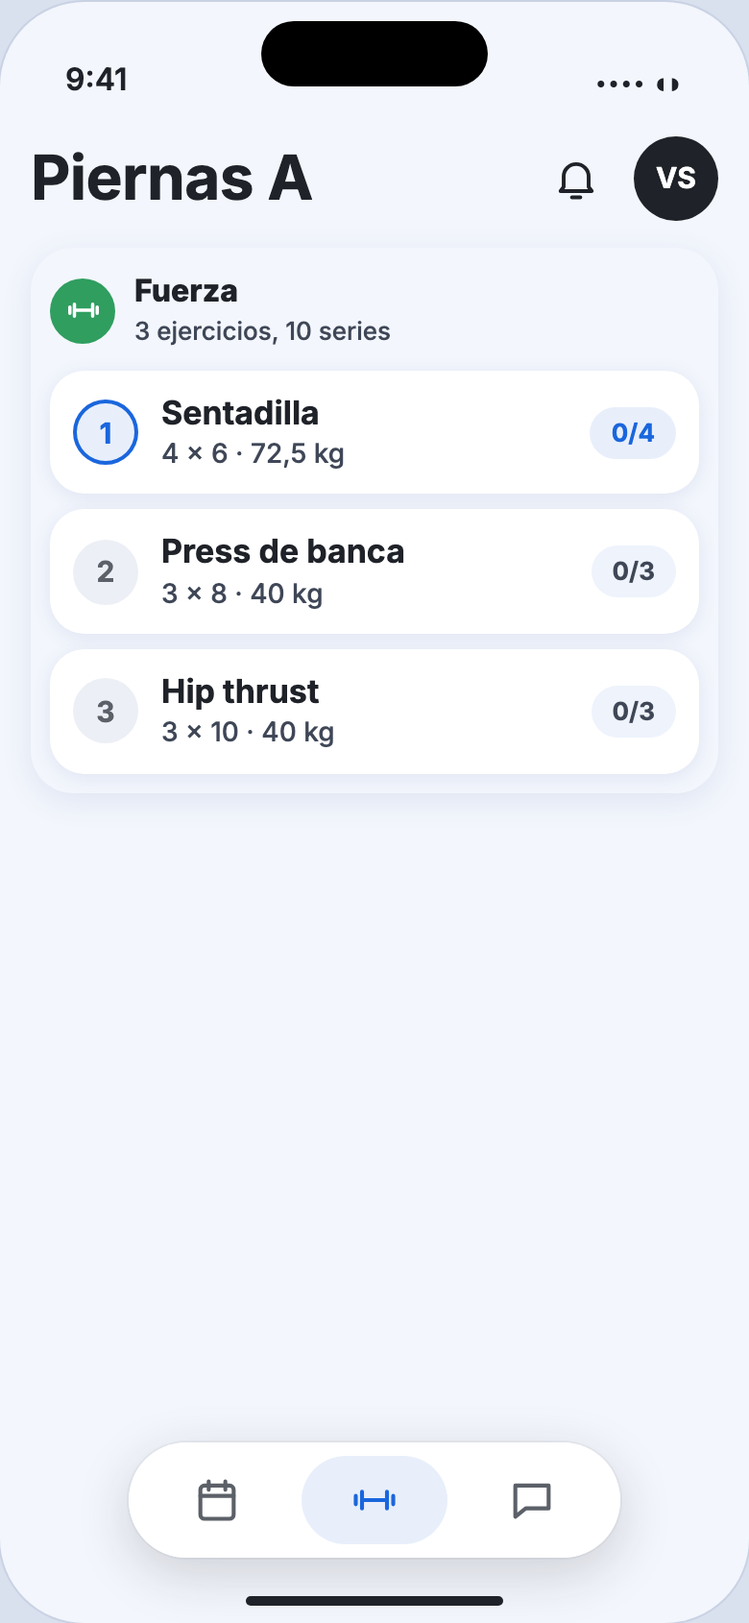
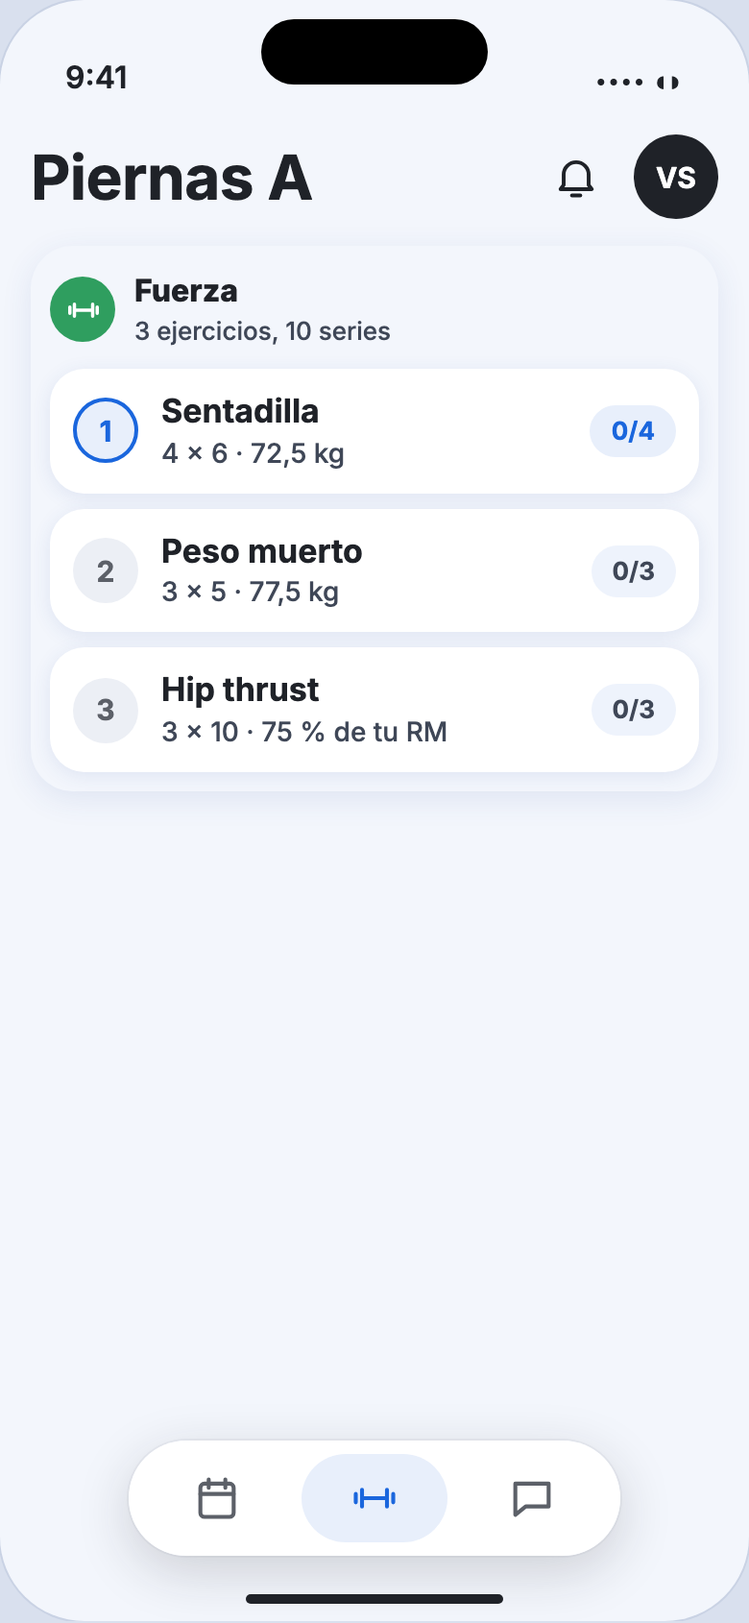
CYC-305: diseño ajustado a las respuestas de la usuaria (solo el coach registra el RM, RM aproximado, historial, varios atletas y aviso)

diff --git a/docs/diseno/rm-porcentaje/propuestas.html b/docs/diseno/rm-porcentaje/propuestas.html
@@ -288,6 +288,23 @@ body{font-family:Inter,-apple-system,system-ui,sans-serif;background:#d9e0ee;col
 .pop div.dis small{color:#8f4410;opacity:1}
 .pop div.act{color:#134fb0;font-weight:700;border-top:1px solid #e6ebf5;margin-top:4px;border-radius:0 0 8px 8px}
 .bn.off{opacity:.45}
+.rn{font:500 13px/1.35 Inter;color:#3f4757;margin:0 0 12px}
+.cbx{display:grid;place-items:center;width:20px;height:20px;border-radius:6px;border:2px solid #8d95a3;background:#fff;flex:none}
+.cbx.on{background:#1a66dd;border-color:#1a66dd}
+.cbx svg{width:13px;height:13px;stroke:#fff;fill:none;stroke-width:3.2;stroke-linecap:round;stroke-linejoin:round}
+.cr2{display:grid;grid-template-columns:28px 140px repeat(3,1fr) 90px;gap:8px;align-items:center;padding:7px 0;border-top:1px solid #e6ebf5;font:600 14px/1 Inter}
+.cr2.h{border-top:0;font:700 12px/1 Inter;color:#3f4757;text-align:center}
+.cr2.h span:nth-child(2){text-align:left}
+.cr2 b{font:700 14px/1.2 Inter}
+.stt{font:700 12px/1 Inter;border-radius:999px;padding:6px 8px;text-align:center}
+.stt.ok{background:#e4f4ea;color:#1d6b3f}
+.stt.no{background:#fdeede;color:#8f4410}
+.ntf{display:flex;gap:12px;align-items:flex-start;padding:14px 0;border-top:1px solid #e6ebf5}
+.ntf:first-of-type{border-top:0}
+.ntf .dot{width:10px;height:10px;border-radius:50%;background:#1a66dd;margin-top:6px;flex:none}
+.ntf b{font:700 15px/1.3 Inter;display:block}
+.ntf p{font:400 14px/1.4 Inter;color:#3f4757;margin:4px 0 8px}
+.ntf u{color:#134fb0;font:700 14px/1 Inter;text-decoration:none}
 
 </style>
 </head>
@@ -322,111 +339,126 @@ const beads=(d,a,n,txt)=>`<div class="beads2">${Array.from({length:n},(_,i)=>`<i
 const pend=(n)=>`<div class="pend"><span>Serie ${n}</span><span>Pendiente</span></div>`;
 const AV=(t)=>`<div class="av" style="width:34px;height:34px;font-size:12px">${t}</div>`;
 const chk=ic('check');
+const inp=(t,w,ph)=>`<div class="f ${ph?'ph2':''}" style="justify-content:start;padding:0 12px;${w?`width:${w}`:''}">${t}</div>`;
 // ---------- WEB: constructor ----------
 const COLS2=(peso)=>`<div class="wr2 h"><span></span><span>Ejercicio</span><span>Ser.</span><span>Reps o tiempo</span><span>Carga</span>${peso?`<span>${peso}</span>`:'<span></span>'}<span>Desc.</span><span>RIR</span><span></span></div>`;
 function row2(n,sets,rep,carga,peso,{desc='',rir='',tag='',pop=''}={}){
   const t=rep.u==='s';
   const cu=carga.u==='%'?'% RM':'kg';
-  const cargaCell=`<div class="pw"><div class="uf"><div class="v ${carga.v===''?'ph2':''}">${carga.v===''?'kg':carga.v}</div><div class="u ${carga.u==='st'?'st':''}">${carga.u==='st'?'kg':cu}${carga.u==='st'?'':ic('chev')}</div></div>${pop}</div>`;
+  const cargaCell=`<div class="pw"><div class="uf"><div class="v ${carga.v===''?'ph2':''}">${carga.v===''?'kg':carga.v}</div><div class="u">${cu}${ic('chev')}</div></div>${pop}</div>`;
   return `<div class="wr2"><span class="gp">⠿</span><div class="nm"><b>${n}</b>${tag}</div><div class="f">${sets}</div>
   <div class="uf"><div class="v">${rep.v}</div><div class="u st">${t?'s':'reps'}</div></div>${cargaCell}<div>${peso}</div>
   <div class="f ${desc?'':'ph2'}">${desc||'s'}</div>${t?'<div class="f off">—</div>':`<div class="f">${rir||'—'}</div>`}<div class="dots3">⋯</div></div>`;
 }
 const kgc=(t)=>`<span class="kgc">${t}</span>`;
+const nor=`<span class="kgc no">Sin RM</span>`;
 const POP_OK=`<div class="pop" style="left:0;top:38px;width:236px"><div><span>Peso fijo<small>Un peso en kg igual para todos</small></span></div><div class="on"><span>% del RM<small>Cada atleta, según su RM</small></span>${chk}</div></div>`;
-const POP_NO=`<div class="pop" style="left:0;top:38px;width:290px"><div class="on"><span>Peso fijo<small>Un peso en kg</small></span>${chk}</div><div class="dis"><span>% del RM<small>Valentina no tiene RM en Hip thrust</small></span></div><div class="act"><span>Ingresar el RM de Valentina</span></div></div>`;
-const POP_T=`<div class="pop" style="left:0;top:38px;width:250px"><div class="on"><span>Peso fijo<small>En kg, opcional</small></span>${chk}</div><div class="dis"><span>% del RM<small>Solo en ejercicios por repeticiones</small></span></div></div>`;
+const POP_NO=`<div class="pop" style="left:0;top:38px;width:310px"><div class="on"><span>Peso fijo<small>Un peso en kg</small></span>${chk}</div><div class="dis"><span>% del RM<small>Valentina no tiene RM en Hip thrust</small></span></div><div class="act"><span>Ingresar el RM de Valentina</span></div><div class="act" style="border-top:0;margin-top:0"><span>Calcular un RM aproximado</span></div></div>`;
 const prevSel=(txt,ph)=>`<div style="display:flex;align-items:center;gap:8px;margin-left:auto;font:600 13px/1 Inter;color:#3f4757">Vista previa con el RM de<div class="uf" style="width:210px"><div class="v ${ph?'ph2':''}" style="justify-content:start;padding:0 10px">${txt}</div><div class="u">${ic('chev')}</div></div></div>`;
 function webA(){
- return `<div class="web" style="min-height:560px"><div class="wh"><div class="wt" style="margin:0">Rutina «Piernas base»</div>${prevSel('Valentina Soto')}</div>
+ return `<div class="web" style="min-height:560px"><div class="wh"><div class="wt" style="margin:0">Rutina «Piernas base»</div><span class="chip gr">Para el equipo</span>${prevSel('Valentina Soto')}</div>
  <div class="wbk">${bh('#2f9e5f','Fuerza','3 ejercicios, 10 series')}${COLS2('Peso de Valentina')}
+  ${row2('Sentadilla',4,{v:6,u:'r'},{v:80,u:'%'},kgc('72,5 kg'),{desc:120,rir:2,pop:POP_OK})}
+  ${row2('Peso muerto',3,{v:5,u:'r'},{v:70,u:'%'},kgc('77,5 kg'),{desc:120,rir:2})}
+  ${row2('Hip thrust',3,{v:10,u:'r'},{v:75,u:'%'},nor,{desc:90,rir:2})}
+ </div>
+ <div class="wnote" style="margin-top:110px">La rutina se piensa para una persona o para un equipo: el % es el mismo para todos y cada atleta recibe su peso según su RM. La vista previa muestra el peso de una persona (redondeado a 2,5 kg para que calce con los discos); si a esa persona le falta el RM, la fila dice «Sin RM» pero el % sigue disponible para el resto.</div></div>`;
+}
+function webSes(){
+ return `<div class="web" style="min-height:520px"><div class="wt">Sesión «Piernas A», semana 2. Valentina Soto</div>
+ <div class="wbk">${bh('#2f9e5f','Fuerza','2 ejercicios, 7 series')}${COLS2('Peso')}
   ${row2('Sentadilla',4,{v:6,u:'r'},{v:80,u:'%'},kgc('72,5 kg'),{desc:120,rir:2})}
-  ${row2('Press de banca',3,{v:8,u:'r'},{v:40,u:'kg'},'',{desc:90,rir:2})}
   ${row2('Hip thrust',3,{v:10,u:'r'},{v:'',u:'kg'},'',{desc:90,rir:2,pop:POP_NO})}
  </div>
- <div class="wnote" style="margin-top:150px">Con una vista previa elegida, «% del RM» se desactiva en los ejercicios donde esa persona no tiene RM: no se ofrece ni se puede guardar. La salida está ahí mismo: «Ingresar el RM de Valentina» abre el formulario con el ejercicio ya elegido.</div></div>`;
-}
-function webB(){
- return `<div class="web" style="min-height:420px"><div class="wh"><div class="wt" style="margin:0">Rutina «Piernas base»</div><span class="chip gr">Plantilla</span>${prevSel('Elegir un atleta',true)}</div>
- <div class="wbk">${bh('#2f9e5f','Fuerza','2 ejercicios, 7 series')}${COLS2('')}
-  ${row2('Sentadilla',4,{v:6,u:'r'},{v:80,u:'%'},'',{desc:120,rir:2})}
-  ${row2('Hip thrust',3,{v:10,u:'r'},{v:75,u:'%'},'',{desc:90,rir:2})}
- </div>
- <div class="wnote">Una rutina o un ciclo plantilla no tiene atleta: no hay RM contra el cual comprobar, así que «% del RM» se ofrece en cualquier ejercicio con carga y el peso no se muestra. La comprobación llega al agregar la rutina a la sesión de un atleta (pantalla siguiente).</div></div>`;
+ <div class="wnote" style="margin-top:170px">Al editar la sesión de una persona, «% del RM» se desactiva donde no tiene RM, con dos salidas: ingresar su RM o calcular uno aproximado. Es distinto de agregar una rutina del equipo: ahí el % se mantiene y solo se avisa.</div></div>`;
 }
 function webAT(){
  return `<div class="web" style="min-height:360px"><div class="wt">Rutina «Piernas base»</div>
  <div class="wbk">${bh('#2f9e5f','Fuerza','2 ejercicios, 7 series')}${COLS2('')}
-  ${row2('Plancha lastrada',3,{v:45,u:'s'},{v:10,u:'st'},'',{desc:45,tag:'<span class="tag">Tiempo</span>',pop:POP_T})}
+  ${row2('Plancha lastrada',3,{v:45,u:'s'},{v:20,u:'%'},'',{desc:45,tag:'<span class="tag">Tiempo</span>'})}
   ${row2('Sentadilla',4,{v:6,u:'r'},{v:80,u:'%'},'',{desc:120,rir:2})}
  </div>
- <div class="wnote" style="margin-top:110px">Cuando la fila es por tiempo, la carga queda en kg: el RM es el máximo a una repetición y no aplica a 45 segundos de plancha. Si una fila con % se pasa a tiempo, la carga vuelve a peso fijo y se avisa.</div></div>`;
+ <div class="wnote">Todos los ejercicios pueden tener RM, también los medidos por tiempo (una plancha con disco tiene su RM). La carga de una fila por tiempo admite «% del RM» igual que una por repeticiones. RIR sigue apagado en las filas por tiempo (CYC-296).</div></div>`;
 }
-// ---------- WEB: ficha del atleta, sección RM ----------
+// ---------- WEB: ficha, RM, historial ----------
 function fichaRM(){
- const g='grid-template-columns:1fr 92px 76px 86px 134px 96px';
+ const g='grid-template-columns:1fr 92px 76px 100px 134px 90px';
  const mx=(n,kg,f,src,cls,ml)=>`<div class="tr" style="${g}"><b>${n}</b><span class="n">${kg}</span><span class="d">${f}</span><span class="src ${cls}">${src}</span><span class="d">${ml}</span><u>Actualizar</u></div>`;
  const no=(n,ml)=>`<div class="tr" style="${g}"><b>${n}</b><span class="n">—</span><span class="d"></span><span></span><span class="d">${ml}</span><u>Agregar RM</u></div>`;
  const h=(a,b,c,d,e)=>`<div class="tr h" style="${g}"><span>${a}</span><span class="n">${b}</span><span class="d">${c}</span><span>${d}</span><span>${e}</span><span></span></div>`;
  return `<div class="web" style="min-height:640px"><div style="display:flex;align-items:center;gap:12px;margin-bottom:12px">${AV('VS')}<div class="wt" style="margin:0;font-size:24px">Valentina Soto</div><div class="sg" style="margin-left:auto"><span>Planes</span><span class="on">RM</span></div></div>
- <div class="alr" style="background:#e8effb;border-color:#b9ccf0;color:#1f2228">${ic('bell').replace('#8f4410','#134fb0')}<span>Para planificar un ejercicio con <b>% del RM</b>, Valentina necesita su RM en ese ejercicio.</span></div>
+ <div class="alr" style="background:#e8effb;border-color:#b9ccf0;color:#1f2228">${ic('bell')}<span>Cuando evalúes a Valentina, <b>actualiza su RM</b>: las sesiones que aún no empieza usan el valor nuevo.</span></div>
  <div class="sec">Con RM</div>
- <div class="tbl">${h('Ejercicio','RM (1 rep)','Fecha','Origen','Máximo levantado')}
+ <div class="tbl">${h('Ejercicio','RM (1 rep)','Evaluado','Origen','Máximo levantado')}
   ${mx('Sentadilla','90 kg','12 nov','Coach','co','80 kg × 5')}
   ${mx('Peso muerto','110 kg','12 nov','Coach','co','100 kg × 3')}
-  ${mx('Press de banca','50 kg','5 nov','Atleta','at','45 kg × 4')}
-  ${mx('Remo con barra','55 kg','29 oct','Coach','co','45 kg × 8')}</div>
+  ${mx('Press de banca','50 kg','5 nov','Coach','co','45 kg × 4')}
+  ${mx('Remo con barra','55 kg','29 oct','Aproximado','es','45 kg × 8')}</div>
  <div class="sec">Sin RM</div>
  <div class="tbl">${h('Ejercicio','RM (1 rep)','','','Máximo levantado')}
   ${no('Hip thrust','60 kg × 10')}
   ${no('Press militar','30 kg × 8')}</div>
- <div class="wnote" style="margin-top:12px">Sección nueva dentro de la ficha. «Máximo levantado» es el mayor peso de sus series, con sus repeticiones: es solo una referencia y nunca llena ni reemplaza el RM. Cada «Actualizar» agrega un registro nuevo; el anterior queda en el historial.</div></div>`;
+ <div class="wnote" style="margin-top:12px">Sección nueva dentro de la ficha. Solo el coach registra el RM. «Máximo levantado» es el mayor peso de sus series, con sus repeticiones: es una referencia y nunca llena ni reemplaza el RM. Tocar un ejercicio abre su historial.</div></div>`;
 }
 function modalRM(){
- return `<div class="web nar" style="min-height:440px"><div class="wt">Agregar RM</div>
- <div class="fld"><b>Atleta</b><div class="f" style="justify-content:start;padding:0 12px;width:100%">Valentina Soto</div></div>
+ return `<div class="web nar" style="min-height:460px"><div class="wt">Agregar RM</div>
+ <div class="fld"><b>Atleta</b>${inp('Valentina Soto','100%')}</div>
  <div class="fld"><b>Ejercicio</b><div class="uf" style="width:100%"><div class="v" style="justify-content:start;padding:0 12px">Hip thrust</div><div class="u">${ic('chev')}</div></div></div>
- <div style="display:flex;gap:12px"><div class="fld" style="flex:1"><b>RM (kg)</b><div class="f ph2" style="justify-content:start;padding:0 12px">kg</div></div><div class="fld" style="flex:1"><b>Fecha</b><div class="f" style="justify-content:start;padding:0 12px">20 nov 2026</div></div></div>
- <div class="wnote"><b>Máximo levantado: 60 kg × 10</b>, el 14 nov. Es solo una referencia. El RM es el mayor peso con el que hace una sola repetición bien hecha, y lo escribes tú.</div>
+ <div style="display:flex;gap:12px"><div class="fld" style="flex:1"><b>RM (kg)</b>${inp('kg','',1)}</div><div class="fld" style="flex:1"><b>Fecha de la evaluación</b>${inp('20 nov 2026')}</div></div>
+ <div style="margin:2px 0 10px"><span style="color:#134fb0;font:700 14px/1 Inter">Calcular un RM aproximado</span></div>
+ <div class="wnote"><b>Máximo levantado: 60 kg × 10</b>, el 14 nov. Es una referencia. El RM es el mayor peso con el que hace una sola repetición bien hecha.</div>
  <div style="display:flex;gap:10px;margin-top:14px"><span class="bn off" style="height:44px;padding:0 22px">Guardar RM</span><span class="bn sec" style="height:44px;padding:0 22px">Cancelar</span></div></div>`;
 }
+function modalCalc(){
+ return `<div class="web nar" style="min-height:460px"><div class="wt">Calcular un RM aproximado</div>
+ <div class="wnote" style="margin:0 0 10px">Úsalo cuando aún no hay una evaluación. Tú pones los datos y tú confirmas el resultado.</div>
+ <div style="display:flex;gap:12px"><div class="fld" style="flex:1"><b>Peso levantado (kg)</b>${inp('60')}</div><div class="fld" style="flex:1"><b>Repeticiones</b>${inp('10')}</div></div>
+ <div style="margin:0 0 10px"><span style="color:#134fb0;font:700 14px/1 Inter">Usar el máximo levantado (60 kg × 10)</span></div>
+ <div class="msg" style="margin-bottom:10px"><b>RM aproximado: 80 kg</b><p style="margin:4px 0 0;font-size:14px">Fórmula de Epley: peso × (1 + repeticiones ÷ 30). Es una aproximación; queda marcada como «Aproximado» hasta que la actualices con una evaluación.</p></div>
+ <div style="display:flex;gap:10px;margin-top:14px"><span class="bn" style="height:44px;padding:0 22px">Usar como RM</span><span class="bn sec" style="height:44px;padding:0 22px">Cancelar</span></div></div>`;
+}
 function modalCambio(){
- return `<div class="web nar" style="min-height:420px"><div class="wt">Actualizar RM de Sentadilla</div>
- <div style="display:flex;gap:12px"><div class="fld" style="flex:1"><b>RM (kg)</b><div class="f" style="justify-content:start;padding:0 12px">100</div></div><div class="fld" style="flex:1"><b>Fecha</b><div class="f" style="justify-content:start;padding:0 12px">20 nov 2026</div></div></div>
+ return `<div class="web nar" style="min-height:460px"><div class="wt">Actualizar RM de Sentadilla</div>
+ <div style="display:flex;gap:12px"><div class="fld" style="flex:1"><b>RM (kg)</b>${inp('100')}</div><div class="fld" style="flex:1"><b>Fecha de la evaluación</b>${inp('20 nov 2026')}</div></div>
  <div class="alr" style="background:#e8effb;border-color:#b9ccf0;color:#1f2228"><span><b>Antes 90 kg, ahora 100 kg.</b> Las sesiones que Valentina aún no empieza usan el RM nuevo: la sentadilla al 80 % pasa de 72,5 kg a 80 kg. Lo que ya registró no cambia.</span></div>
  <div style="display:flex;gap:10px;margin-top:14px"><span class="bn" style="height:44px;padding:0 22px">Guardar RM</span><span class="bn sec" style="height:44px;padding:0 22px">Cancelar</span></div></div>`;
 }
-// ---------- WEB: asignar y cobertura ----------
-function asignar(){
- return `<div class="web nar" style="min-height:560px"><div class="wt">Agregar rutina a la sesión</div>
- <div class="fld"><b>Atleta</b><div class="f" style="justify-content:start;padding:0 12px;width:100%">Camila Rojas</div></div>
- <div class="fld"><b>Rutina</b><div class="uf" style="width:100%"><div class="v" style="justify-content:start;padding:0 12px">Piernas base</div><div class="u">${ic('chev')}</div></div></div>
- <div class="fld"><b>Celda</b><div class="f" style="justify-content:start;padding:0 12px;width:260px">Semana 2, sesión 1</div></div>
- <div class="alr" style="display:block"><b>Camila no tiene RM en Peso muerto ni en Hip thrust.</b> Sin RM no se puede usar % del RM en esos ejercicios.
-  <div class="rd"><i class="on"></i><span><b>Ingresar su RM ahora</b> Se abre su ficha; al volver, la rutina se agrega con %.</span></div>
-  <div class="rd"><i></i><span><b>Usar peso fijo en esos ejercicios</b></span></div>
-  <div style="display:flex;gap:10px;margin:8px 0 0 28px"><div style="flex:1"><div class="flab">Peso muerto</div><div class="f ph2" style="margin-top:4px;justify-content:start;padding:0 10px">kg</div></div><div style="flex:1"><div class="flab">Hip thrust</div><div class="f ph2" style="margin-top:4px;justify-content:start;padding:0 10px">kg</div></div></div></div>
- <span class="bn off" style="height:46px;padding:0 24px;margin-top:12px">Agregar</span>
- <div class="wnote" style="margin-top:12px">«Agregar» se activa cuando cada ejercicio con % tiene RM o un peso fijo. Asignar el ciclo de la Biblioteca solo copia el ciclo vacío, así que ahí no hay nada que comprobar: el % llega con la rutina.</div></div>`;
+function historial(){
+ const r=(f,kg,src,cls,cur)=>`<div class="tr" style="grid-template-columns:1fr 100px 110px 90px;${cur?'background:#f3f6fc':''}"><b>${f}</b><span class="n">${kg}</span><span class="src ${cls}">${src}</span><span class="d">${cur?'Vigente':''}</span></div>`;
+ return `<div class="web nar" style="min-height:360px"><div class="wt">Historial de Sentadilla. Valentina Soto</div>
+ <div class="tbl"><div class="tr h" style="grid-template-columns:1fr 100px 110px 90px"><span>Evaluación</span><span class="n">RM</span><span>Origen</span><span></span></div>
+ ${r('12 nov 2026','90 kg','Coach','co',1)}${r('15 oct 2026','85 kg','Coach','co')}${r('20 sep 2026','80 kg','Aproximado','es')}</div>
+ <div class="wnote" style="margin-top:12px">Cada evaluación agrega una fila; las anteriores no se borran. El RM vigente es la evaluación más reciente.</div></div>`;
 }
-function cobertura(){
+// ---------- WEB: agregar a varios atletas y aviso ----------
+function variosAtletas(){
+ const cb=(on)=>`<i class="cbx ${on?'on':''}">${on?chk:''}</i>`;
  const c=(t,ok)=>`<div class="cv ${ok?'ok':'no'}">${t}</div>`;
- const r=(n,a,b,c3)=>`<div class="cr"><b>${n}</b>${a}${b}${c3}</div>`;
- return `<div class="web" style="min-height:420px"><div class="wt">Rutina «Piernas base». Quién tiene RM</div>
- <div class="cr h"><span></span><span>Sentadilla 80 %</span><span>Peso muerto 70 %</span><span>Hip thrust 75 %</span></div>
- ${r('Valentina Soto',c('72,5 kg',1),c('77 kg',1),c('Sin RM',0))}
- ${r('Camila Rojas',c('65 kg',1),c('Sin RM',0),c('Sin RM',0))}
- ${r('Josefa Pino',c('80 kg',1),c('85 kg',1),c('90 kg',1))}
- ${r('Matías Vera',c('Sin RM',0),c('Sin RM',0),c('Sin RM',0))}
- ${r('Antonia Díaz',c('60 kg',1),c('70 kg',1),c('Sin RM',0))}
- <div class="alr" style="margin-top:12px">${ic('bell')}<span><b>Solo 1 de 5 atletas</b> tiene RM en los 3 ejercicios con %. A los demás no se les puede agregar la rutina con %. Tocar «Sin RM» abre su ficha.</span></div>
- <div class="wnote">Pantalla para el equipo: el mismo ciclo, atleta por atleta, con el peso que le toca. Se abre desde la rutina en la Biblioteca y lista a los atletas activos del coach. Es una tarjeta aparte (CYC-307), no bloquea el resto.</div></div>`;
+ const r=(on,n,a,b,d,st)=>`<div class="cr2">${cb(on)}<b>${n}</b>${a}${b}${d}<span class="stt ${st==='Lista'?'ok':'no'}">${st}</span></div>`;
+ return `<div class="web" style="min-height:560px"><div class="wt">Agregar «Piernas base» a la semana 2, sesión 1</div>
+ <div style="display:flex;gap:10px;align-items:center;margin-bottom:10px"><span class="chip nx">Todos mis atletas</span><span class="chip gr">Elegir atletas</span></div>
+ <div class="cr2 h"><span></span><span>Atleta</span><span>Sentadilla 80 %</span><span>Peso muerto 70 %</span><span>Hip thrust 75 %</span><span>Estado</span></div>
+ ${r(1,'Valentina Soto',c('72,5 kg',1),c('77,5 kg',1),c('Sin RM',0),'Falta RM')}
+ ${r(1,'Camila Rojas',c('65 kg',1),c('Sin RM',0),c('Sin RM',0),'Falta RM')}
+ ${r(1,'Josefa Pino',c('80 kg',1),c('85 kg',1),c('90 kg',1),'Lista')}
+ ${r(1,'Matías Vera',c('Sin RM',0),c('Sin RM',0),c('Sin RM',0),'Falta RM')}
+ ${r(1,'Antonia Díaz',c('60 kg',1),c('70 kg',1),c('Sin RM',0),'Falta RM')}
+ <div class="alr" style="margin-top:12px">${ic('bell')}<span><b>A 4 de 5 atletas les falta RM en algún ejercicio.</b> Se agrega igual: tendrán el % sin peso y te avisamos para que agregues o calcules su RM.</span></div>
+ <span class="bn" style="height:46px;padding:0 24px;margin-top:12px">Agregar a 5 atletas</span>
+ <div class="wnote" style="margin-top:12px">Cada atleta recibe la misma rutina con su propio peso. Pesos redondeados a 2,5 kg para que calcen con los discos. Hoy no existen los equipos como grupo con nombre: se elige a los atletas (o a todos).</div></div>`;
+}
+function avisoCoach(){
+ return `<div class="web nar" style="min-height:460px"><div style="display:flex;align-items:center;gap:10px;margin-bottom:12px"><div class="wt" style="margin:0">Avisos</div></div>
+ <div class="ntf"><i class="dot"></i><div style="flex:1"><b>Camila Rojas no tiene RM en Peso muerto ni en Hip thrust.</b><p>Su sesión de la semana 2 usa % del RM y quedó sin peso.</p><div style="display:flex;gap:14px"><u>Agregar RM</u><u>Calcular aproximado</u></div></div></div>
+ <div class="ntf"><i class="dot"></i><div style="flex:1"><b>Matías Vera no tiene RM en Sentadilla, Peso muerto ni Hip thrust.</b><p>Su sesión de la semana 2 usa % del RM y quedó sin peso.</p><div style="display:flex;gap:14px"><u>Agregar RM</u><u>Calcular aproximado</u></div></div></div>
+ <div class="wnote">Un aviso por atleta, sin datos de salud. Desaparece cuando el RM queda registrado.</div></div>`;
 }
 // ---------- WEB: atleta ----------
 function webAtleta(){
  return `<div class="web nar" style="min-height:420px"><div style="font:600 14px/1 Inter;color:#3f4757;margin-bottom:10px">‹ Sesión de hoy</div>
  <div class="wt" style="font-size:24px">Sentadilla</div>
- <div style="display:flex;gap:18px;margin-bottom:12px;font:500 14px/1.3 Inter"><div><b style="display:block;font:700 12px/1 Inter;color:#3f4757">Meta</b>4 × 6 con 72,5 kg</div><div><b style="display:block;font:700 12px/1 Inter;color:#3f4757">Carga</b><span class="chip nx">80 % de tu RM de 90 kg</span></div></div>
+ <div style="display:flex;gap:18px;margin-bottom:12px;font:500 14px/1.3 Inter"><div><b style="display:block;font:700 12px/1 Inter;color:#3f4757">Meta</b>4 × 6 con 72,5 kg</div><div><b style="display:block;font:700 12px/1 Inter;color:#3f4757">Carga</b><span class="chip nx">Estás levantando el 80 % de tu RM</span></div></div>
+ <div class="rn" style="margin-top:-4px">Peso redondeado a 2,5 kg para que calce con los discos.</div>
  <div class="dn"><b>Serie 1</b><span>6 reps · 72,5 kg</span><u>Editar</u></div>
  <div class="sc" style="box-shadow:0 0 0 1px #dde4f0"><div class="sh"><b>Serie 2</b><span class="tp">Meta: 6 × 72,5 kg</span></div>
  <div style="display:flex;gap:12px"><div style="flex:1"><div class="flab">Repeticiones</div><div class="f" style="margin-top:6px;justify-content:start;padding:0 12px">6</div></div><div style="flex:1"><div class="flab">Peso (kg)</div><div class="f" style="margin-top:6px;justify-content:start;padding:0 12px">72,5</div></div></div></div>
@@ -437,34 +469,29 @@ function hoy(){
  const xr=(i,n,t,p,cur)=>`<div class="xr"><div class="nd ${cur?'cur':''}">${i}</div><div class="tx"><b>${n}</b><span>${t}</span></div><span class="pl ${cur?'cur':''}">${p}</span></div>`;
  return phone(`<div class="scr"><div class="hd"><h1>Piernas A</h1>${bell}<div class="av">VS</div></div>
  <div class="blk"><div class="bh2"><div class="pr" style="background:#2f9e5f">${ic('dumb')}</div><div class="t"><b>Fuerza</b><span>3 ejercicios, 10 series</span></div></div>
-  ${xr(1,'Sentadilla','4 × 6 · 72,5 kg','0/4',true)}${xr(2,'Press de banca','3 × 8 · 40 kg','0/3')}${xr(3,'Hip thrust','3 × 10 · 40 kg','0/3')}</div></div>`,{tabs:TABS,active:1});
+  ${xr(1,'Sentadilla','4 × 6 · 72,5 kg','0/4',true)}${xr(2,'Peso muerto','3 × 5 · 77,5 kg','0/3')}${xr(3,'Hip thrust','3 × 10 · 75 % de tu RM','0/3')}</div></div>`,{tabs:TABS,active:1});
 }
 function logRM(){
  return phone(`<div class="scr nopad" style="padding-bottom:170px">${back('Piernas A')}
  <div class="xt">Sentadilla</div>${beads(0,0,4,'Serie 1 de 4')}
  <div class="sc"><div class="sh"><b>Serie 1</b><span class="tp">Meta: 6 × 72,5 kg</span></div>
- <div style="margin-bottom:12px"><span class="chip nx">80 % de tu RM de 90 kg</span></div>
+ <div style="margin-bottom:6px"><span class="chip nx">Estás levantando el 80 % de tu RM</span></div>
+ <div class="rn">Peso redondeado a 2,5 kg para que calce con los discos.</div>
  <div class="flab">Repeticiones</div><div class="stp"><i>−</i><b>6</b><i>+</i></div>
  <div class="flab" style="margin-top:14px">Peso</div><div class="stp"><i>−</i><b>72,5<small>kg</small></b><i>+</i></div></div>${pend(2)}${pend(3)}</div>
  <div class="ft"><div class="bt">Guardar serie</div></div>`);
 }
-function misRM(write,over=''){
- const r=(n,kg,src,cls,f)=>`<div class="rw"><div class="tx"><b style="font-size:16px">${n}</b></div><span style="font:800 16px/1 Inter">${kg}</span><span class="src ${cls}">${src}</span><span style="font:500 13px/1 Inter;color:#3f4757;width:44px;text-align:right">${f}</span></div>`;
- return phone(`<div class="scr">${back('Cuenta')}<div class="xt">Mis RM</div>
- <div class="card"><div class="ch"><h2>Con RM</h2></div>
-  ${r('Sentadilla','90 kg','Coach','co','12 nov')}${r('Peso muerto','110 kg','Coach','co','12 nov')}${r('Press de banca','50 kg',write?'Yo':'Coach',write?'at':'co','5 nov')}</div>
- ${write?`<div class="bt sec">Agregar RM</div>`:`<div class="msg"><b>Tu coach registra tu RM</b><p style="margin-bottom:0">Si algo no está al día, avísale.</p></div>`}</div>`,{tabs:TABS,active:1,over});
-}
-function sheetRM(){
- const s=`<div class="scrim" style="place-items:end stretch"><div class="sheet"><i class="grab"></i><div style="font:800 24px/1.15 Inter;margin-bottom:12px">Tu RM de Hip thrust</div>
- <div class="flab">RM (kg)</div><div class="stp" style="margin-bottom:12px"><i>−</i><b style="color:#8d95a3">—<small>kg</small></b><i>+</i></div>
- <div class="flab">Fecha</div><div class="f" style="margin:6px 0 12px;justify-content:start;padding:0 12px;height:44px;font-size:16px">Hoy, 20 nov</div>
- <div class="msg" style="margin-bottom:14px;padding:12px"><b style="font-size:15px">Máximo levantado: 60 kg × 10</b><p style="font-size:14px;margin:4px 0 0">Es solo una referencia. Tu RM es el mayor peso con el que haces una sola repetición bien hecha.</p></div>
- <div class="bt off">Guardar RM</div><div class="lnk">Cancelar</div></div></div>`;
- return misRM(true,s);
+function logSin(){
+ return phone(`<div class="scr nopad" style="padding-bottom:170px">${back('Piernas A')}
+ <div class="xt">Hip thrust</div>${beads(0,0,3,'Serie 1 de 3')}
+ <div class="sc"><div class="sh"><b>Serie 1</b><span class="tp">Meta: 10 reps al 75 % de tu RM</span></div>
+ <div class="msg" style="margin-bottom:14px;padding:12px"><b style="font-size:15px">Aún no hay peso calculado</b><p style="font-size:14px;margin:4px 0 0">Tu coach indicó el 75 % de tu RM. Registra el peso que uses.</p></div>
+ <div class="flab">Repeticiones</div><div class="stp"><i>−</i><b>10</b><i>+</i></div>
+ <div class="flab" style="margin-top:14px">Peso</div><div class="stp"><i>−</i><b>0<small>kg</small></b><i>+</i></div></div>${pend(2)}${pend(3)}</div>
+ <div class="ft"><div class="bt">Guardar serie</div></div>`);
 }
 function novAtleta(){
- const nv=`<div class="scrim"><div class="nv"><div class="dm" style="display:grid;place-items:center"><div style="display:flex;align-items:center;gap:14px"><div class="nvbox"><b>80 %</b><small>de tu RM</small></div><span style="font:800 30px/1 Inter;color:#1a66dd">→</span><div class="nvbox on"><b>72,5 kg</b><small>tu peso</small></div></div></div><div class="pane"><div class="lb">Novedad</div><h3>Tu peso, calculado</h3><p>Tu coach puede indicar un % de tu RM. Verás el peso en kg ya calculado para cada serie.</p></div><div style="display:flex;align-items:center;justify-content:space-between;padding:10px 12px 14px"><span style="color:#1a66dd;font:700 16px/1 Inter;padding:0 8px">Saltar</span><div class="dots"><i class="on"></i><i></i></div><span class="nx">Siguiente</span></div></div></div>`;
+ const nv=`<div class="scrim"><div class="nv"><div class="dm" style="display:grid;place-items:center"><div style="display:flex;align-items:center;gap:14px"><div class="nvbox"><b>80 %</b><small>de tu RM</small></div><span style="font:800 30px/1 Inter;color:#1a66dd">→</span><div class="nvbox on"><b>72,5 kg</b><small>tu peso</small></div></div></div><div class="pane"><div class="lb">Novedad</div><h3>Tu peso, calculado</h3><p>Tu coach puede indicar un % de tu RM. Verás el peso ya calculado y redondeado para que calce con los discos.</p></div><div style="display:flex;align-items:center;justify-content:space-between;padding:10px 12px 14px"><span style="width:60px"></span><div class="dots"><i class="on"></i></div><span class="nx">Entendido</span></div></div></div>`;
  return phone(`<div class="scr"><div class="hd"><h1>Piernas A</h1>${bell}<div class="av">VS</div></div><div class="blk" style="height:200px"></div></div>`,{tabs:TABS,active:1,over:nv});
 }
 function novCoach(){
@@ -472,27 +499,27 @@ function novCoach(){
 }
 const out=document.getElementById('out');
 const add=(id,label,items)=>out.insertAdjacentHTML('beforeend',`<div class="lab">${label}</div><div class="row" id="${id}">${items.map(([c,h])=>`<div class="fr">${h}<div class="cap">${c}</div></div>`).join('')}</div>`);
-add('r1','1 · Coach en la web: el RM de cada atleta, en su ficha',[
+add('r1','1 · Coach en la web: el RM de cada atleta (lo registra solo el coach)',[
  ['Ficha del atleta, sección RM: con RM, sin RM y el máximo levantado como referencia',fichaRM()],
- ['Agregar el RM de un ejercicio (también se abre desde el constructor)',modalRM()],
- ['Actualizar un RM: qué cambia en las sesiones pendientes',modalCambio()]]);
+ ['Agregar el RM de un ejercicio',modalRM()],
+ ['Calcular un RM aproximado (lo decide el coach)',modalCalc()],
+ ['Actualizar un RM tras una evaluación: qué cambia en las sesiones pendientes',modalCambio()],
+ ['Historial del RM de un ejercicio',historial()]]);
 add('r2','2 · Coach en la web: elegir «peso fijo» o «% del RM» por fila',[
- ['A · Con un atleta en la vista previa: «% del RM» se desactiva donde no hay RM (recomendada)',webA()],
- ['Rutina o plantilla sin atleta: «% del RM» se ofrece y se comprueba al asignar',webB()],
- ['Ejercicio por tiempo: la carga queda en kg (convive con CYC-296)',webAT()]]);
-add('r3','3 · Coach en la web: agregar una rutina a atletas que no tienen todos los RM',[
- ['Agregar una rutina a la sesión de un atleta sin RM en algunos ejercicios: ingresar el RM o usar peso fijo',asignar()],
- ['Equipo: quién tiene RM en cada ejercicio de una rutina con %',cobertura()]]);
-add('r4','4 · Atleta en la app',[
- ['Hoy: el peso ya calculado',hoy()],
- ['Registro de una serie, con RM',logRM()],
- ['Cuenta › Mis RM, opción A: el atleta también registra su RM',misRM(true)],
- ['Ingresar mi RM (opción A)',sheetRM()],
- ['Cuenta › Mis RM, opción B: solo lectura, el coach lo registra',misRM(false)]]);
+ ['Rutina para una persona o un equipo, con la vista previa de un atleta (recomendada)',webA()],
+ ['Sesión de una persona: «% del RM» desactivado donde no tiene RM',webSes()],
+ ['Ejercicio por tiempo: la carga también admite % del RM',webAT()]]);
+add('r3','3 · Coach en la web: agregar la rutina a varios atletas y avisos',[
+ ['Agregar a varios atletas: cada uno con su peso; a quien le falta RM se le agrega igual y se avisa',variosAtletas()],
+ ['Aviso al coach: falta el RM',avisoCoach()]]);
+add('r4','4 · Atleta en la app (solo ve, no registra el RM)',[
+ ['Hoy: el peso ya calculado; sin RM, el %',hoy()],
+ ['Registro de una serie, con RM: el comentario del % y el redondeo',logRM()],
+ ['Registro de una serie, sin RM calculado',logSin()]]);
 add('r5','5 · Atleta en la web',[
  ['Sesión con RM',webAtleta()]]);
 add('r6','6 · Fichas de novedad (popup)',[
- ['Atleta (app y web), slide 1 de 2',novAtleta()],
+ ['Atleta (app y web), 1 slide',novAtleta()],
  ['Coach (web), slide 1 de 3',novCoach()]]);
 
 </script>
